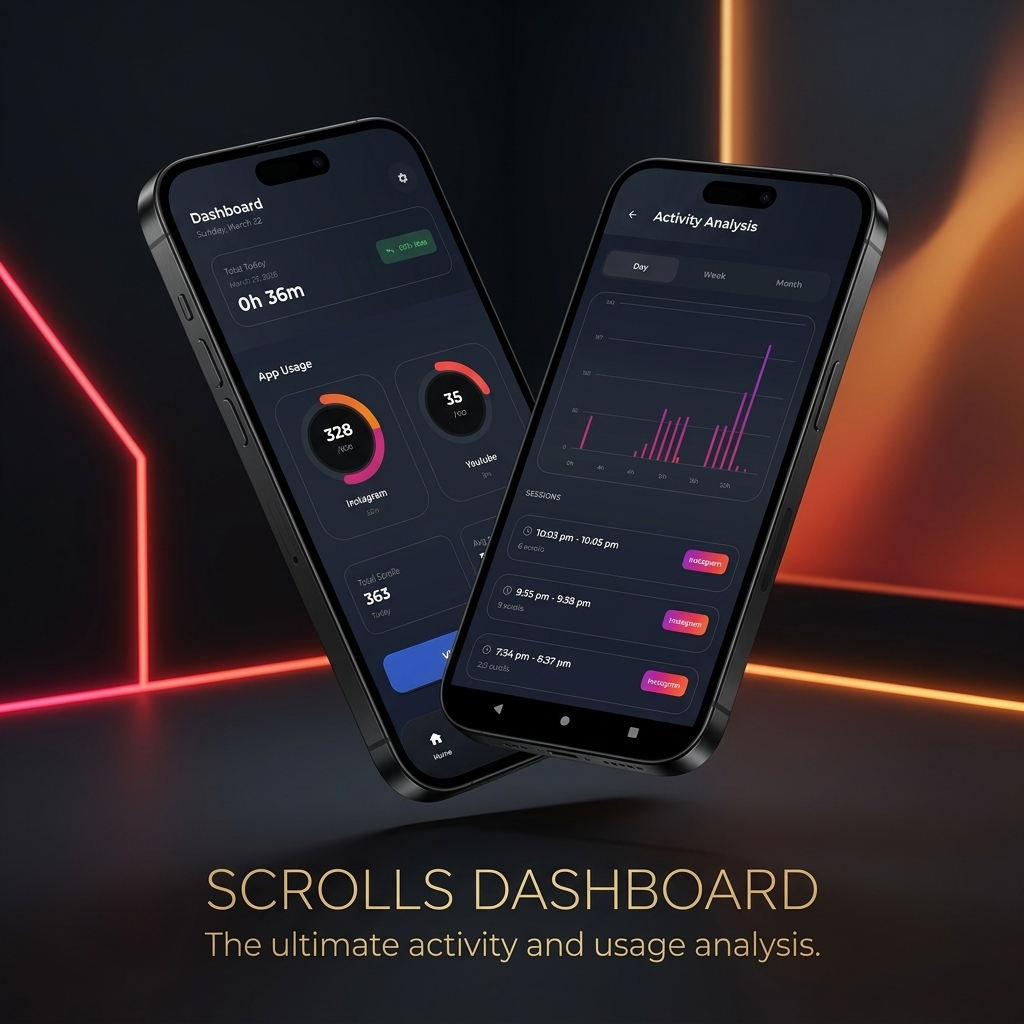
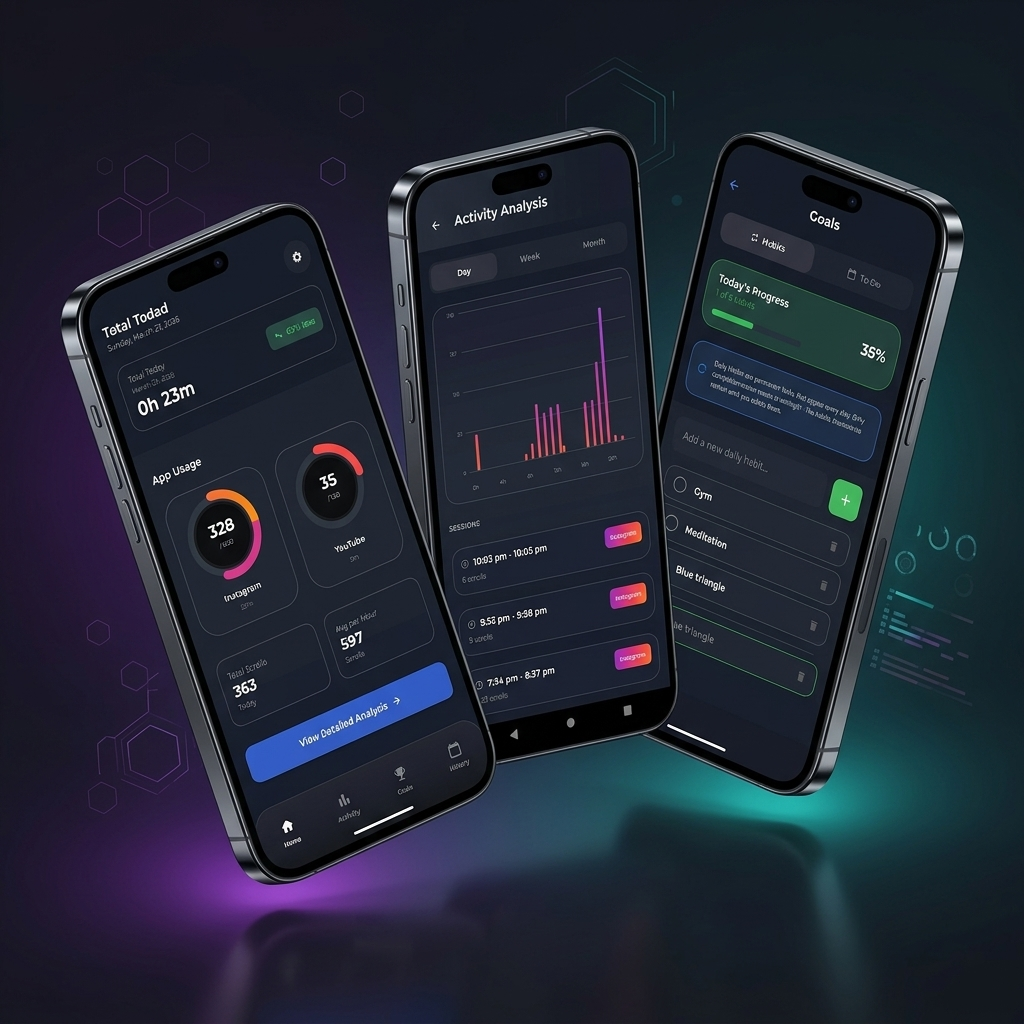
Add Agentic Deep Research project to featured projects

diff --git a/src/components/Projects.jsx b/src/components/Projects.jsx
@@ -155,9 +155,75 @@ const projectsData = [
       designPhilosophy: "The focus was purely on robust functionality, speed, and reliability. By keeping the application entirely terminal-based, we minimized overhead and maximized the processing power dedicated to the local LLM.",
       closingQuote: "Bringing intelligent, deterministic AI to the edge—where privacy meets performance."
     }
-  },
   {
     id: 3,
+    title: "Agentic Deep Research System",
+    date: "2026",
+    description: "A fully agentic, ReAct-pattern deep research system built over a corpus of 439 arXiv papers, incorporating a four-stage reasoning loop to address the limitations of single-pass RAG.",
+    image: "/assets/ai_support_triage.png",
+    readMore: "#",
+    technologies: ["Agentic RAG", "Python", "Local LLMs", "FAISS", "BM25", "Ollama"],
+    liveLink: "#",
+    urlBar: "github.com/Atharav001/Agentic-Deep-Research",
+    tabTag: "AI Research",
+    caseStudy: "#",
+    caseStudyDetails: {
+      role: "AI Researcher & Developer",
+      techStack: "Python, Ollama (gemma3:4b), FAISS, BM25Okapi, PyMuPDF",
+      platform: "Local AI Agent",
+      problemLead: "Single-pass retrieval-augmented generation systems degrade systematically on multi-source academic queries, where answer completeness depends on evidence aggregation across several independent papers.",
+      problemTitle: "The Limitations of Single-Pass RAG",
+      problemText: "Conventional RAG architectures operate as single-pass pipelines. This design exhibits fundamental failure modes under the conditions characteristic of academic literature synthesis due to query ambiguity, evidence sparsity, and positional retrieval bias (the 'Lost in the Middle' effect).",
+      solutionTitle: "Agentic ReAct-Pattern Architecture",
+      solutionText: "A ReAct-pattern deep research system incorporating a four-stage reasoning loop—Planner, Hybrid Retriever, Reflector, and NLI-backed Synthesizer. A seven-configuration ablation study demonstrates that the complete agentic system achieves measurably superior citation precision and answer faithfulness.",
+      features: [
+        {
+          title: "Context-Enriched Chunking",
+          text: "Every chunk is prepended with a structured prefix (Paper Title, Section, Abstract) before embedding. This directly addresses the 'Lost in the Middle' problem, ensuring chunks encode both local semantic content and origin context."
+        },
+        {
+          title: "Hybrid Retrieval & RRF",
+          text: "Maintains a dense index (BAAI/bge-small-en-v1.5 via FAISS) and a lexical index (BM25Okapi). Fusion is performed via Reciprocal Rank Fusion (RRF) with k=60, followed by cross-encoder reranking."
+        },
+        {
+          title: "The ReAct Reasoning Loop",
+          text: "A dynamic loop where the Planner decomposes queries, the Retriever executes hybrid pipelines, and the Reflector acts as a retrieval quality controller to generate follow-up queries."
+        },
+        {
+          title: "NLI Citation Verifier",
+          text: "Performs Strict ID Boundary Checking. Every inline citation is cross-referenced against the retrieved evidence list, surgically removing sentences tied to absent arXiv IDs without discarding valid content."
+        }
+      ],
+      technicalText: "Built over a corpus of 439 arXiv papers, evaluated using a 30-question dataset and 7 ablation configurations. The inference backend runs entirely locally on Ollama (gemma3:4b) with zero API dependency.",
+      techHighlights: [
+        {
+          title: "Dynamic Routing via Reflector",
+          text: "The Reflector evaluates citation coverage against domain-appropriate thresholds. On deficit, it generates semantically distinct follow-up queries."
+        },
+        {
+          title: "Scale-Invariant Score Fusion",
+          text: "RRF is mathematically superior to naive score averaging because it is scale-invariant and rank-position-sensitive, naturally amplifying consensus high-confidence retrievals."
+        }
+      ],
+      pipeline: [
+        "Planner decomposes the question into sub-queries",
+        "Hybrid Retriever executes FAISS+BM25 searches",
+        "RRF and Cross-Encoder Reranking filter top context",
+        "Reflector loop ensures citation coverage thresholds",
+        "Synthesizer generates answer and NLI Verifier checks citations"
+      ],
+      deepIntegration: [
+        {
+          title: "Zero API Dependency",
+          text: "The entire system runs on fully local inference backends, ensuring complete data privacy and reproducibility."
+        }
+      ],
+      designPhilosophy: "The central design insight is that dynamic routing via an iterative Reflector loop is categorically superior to a fixed retrieval pipeline. This transforms retrieval from a deterministic lookup into a coverage-maximising search process.",
+      closingQuote: "Transforming retrieval from a deterministic lookup into a coverage-maximising search process."
+    }
+  },
+  {
+    id: 4,
     title: 'Portfolio 2.0 - Immersive Developer Experience',
     date: 'May 2026',
     description: 'A high-performance, immersive developer portfolio featuring canvas-based neural simulations, glassmorphic UI overlay case studies, and smooth inertia physics navigation.',
